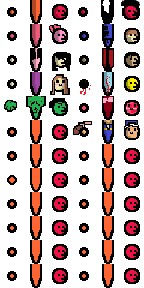
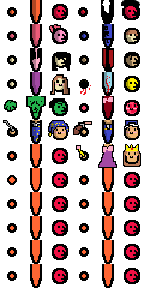
wall grab and corner climb improvements

diff --git a/src/engine/Mechanics/PlayerMovement.ts b/src/engine/Mechanics/PlayerMovement.ts
@@ -30,6 +30,7 @@ export class PlayerMovement {
   private climbInset = 3.6;
   private mudFall = 0.1;
   private minMudJumpStop = 0;
+  private wallCoyoteVY = -0.1;
 
   private mudXExtraFrictionBase = 0.3;
   private mudXExtraFrictionMult = -0.1;
@@ -44,6 +45,7 @@ export class PlayerMovement {
   private kickTime = 15;
   private grabTime = 50;
   private rollTime = 20;
+  private coyoteWallTime = 20;
   private rollAfterTime = 5;
   private landTimeBase = 5;
   private landTimeVMult = 1;
@@ -104,14 +106,13 @@ export class PlayerMovement {
     if (player.keys.up) {
       if (this.canJump(player)) {
         if (!player.isGrounded && !player.actionState) player.doubleJumpsRemaining--;
-        player?.actionState?.onJump?.();
 
         // let tdc = this.world.checkBottom(player.getCollider(), player.isGhost);
         // if (tdc < this.minMudJumpStop && tvc.downBlock && tvc.downBlock.type === 'mud') {
         //   let percent = tvc.down / this.mudMaxSink;
         //   player.vY = this.mudJumpSpeedMin + percent * this.mudJumpSpeedMult;
         // } else {
-          player.vY = Math.max(this.jumpSpeed, player.vY + this.jumpSpeed);
+        player.vY = Math.max(this.jumpSpeed, player.vY + this.jumpSpeed);
         // }
 
         player.isGrounded = false;
@@ -119,6 +120,7 @@ export class PlayerMovement {
         player.landTime = 0;
         player.stepBlock = null;
         player.holdUp = true;
+        player?.actionState?.onJump?.();
       } else {
         if (!player.isGrounded && player.vY < 0) player.holdUp = true;
       }
@@ -135,13 +137,13 @@ export class PlayerMovement {
         } else {
           player.isCrouching = true;
         }
-      } else {
+      } else if (!player.isCrouching) {
         player.vY = Math.max(this.divingSpeed, player.vY);
         player.isCrouching = true;
       }
     } else {
       if (player.actionState) {}
-      else if (player.isCrouching && !this.world.checkTop(player.getCollider(true), player.isGhost)) {
+      else if (player.isGrounded && player.isCrouching && !this.world.checkTop(player.getCollider(true), player.isGhost)) {
         player.isCrouching = false;
       }
     }
@@ -157,6 +159,11 @@ export class PlayerMovement {
       if (player.actionState.type === 'jetpacking') {
         speed = this.jetpackXSpeed;
         friction = this.airFriction;
+      } else if (player.actionState.type === 'wall-grab') {
+        if (player.actionState.hasPhysics) {
+          speed = this.airMoveSpeed;
+          friction = this.airFriction;
+        }
       }
     } else if (player.isGrounded) {
       speed = this.moveSpeed;
@@ -170,16 +177,19 @@ export class PlayerMovement {
     }
     if (player.landTime > 0) friction *= this.extraLandFriction;
 
-    if (player.keys.left || player.keys.right) {
-      if (player.bounceTime <= 0) {
-        let direction = 0;
-  
-        if (player.keys.left) direction--;
-        if (player.keys.right) direction++;
-
-        player.vX += speed * direction;
+    if (player.bounceTime <= 0) {
+      if (player.keys.left && !player.holdLeft) {
+        player.actionState?.onLR?.(-1);
+        player.vX += -speed;
+      }
+      if (player.keys.right && !player.holdRight) {
+        player.actionState?.onLR?.(1);
+        player.vX += speed;
       }
     }
+
+    if (!player.keys.left) player.holdLeft = false;
+    if (!player.keys.right) player.holdRight = false;
 
     player.vX *= friction;
     player.vX = _.clamp(player.vX, -this.maxSpeed, this.maxSpeed);
@@ -189,10 +199,10 @@ export class PlayerMovement {
   }
 
   public canJump(player: PlayerSprite) {
-    if (player.isCrouching) return false;
-    if (player.landTime > 0) return false;
     if (player.holdUp) return false;
     if (player.actionState) return player.actionState.canJump;
+    if (player.isCrouching) return false;
+    if (player.landTime > 0) return false;
     if (player.isGrounded) return true;
     if (!player.isGrounded && player.doubleJumpsRemaining > 0) return true;
 
@@ -203,8 +213,8 @@ export class PlayerMovement {
     // VERTICAL
 
     // UPDATE
-    player.y += player.vY;
     player.actionState?.updateY?.();
+    player.y += player.vY;
 
     // COLLIDE
     if (player.vY < 0) {
@@ -232,6 +242,8 @@ export class PlayerMovement {
       let downCollision = this.world.checkBottom(player.getCollider(), player.isGhost);
       
       if (downCollision) {
+        player.holdLeft = false;
+        player.holdRight = false;
         if (player.actionState && player.actionState.onCollisionDown) {
           player.actionState.onCollisionDown(downCollision);
         } else if (!player.isGrounded) {
@@ -279,14 +291,15 @@ export class PlayerMovement {
 
         if (!player.actionState) {
           let hlrCollision = this.world.checkLR(player.getTopCollider(), player.isGhost, direction);
-          if (!hlrCollision && (player.vX === 0 || Math.sign(player.vX) === direction)) {
+          if (!player.isCrouching && !hlrCollision && (player.vX === 0 || Math.sign(player.vX) === direction)) {
             this.startClimbing(player, direction);
             return;
           } else if (!player.isGrounded && player.wallGrabsRemaining > 0) {
             let key = direction < 0 ? player.keys.left : player.keys.right;
             let oKey = direction < 0 ? player.keys.right : player.keys.left;
+            let oHeld = direction < 0 ? player.holdRight : player.holdLeft;
 
-            if ((!oKey && Math.sign(player.vX) === direction && Math.abs(player.vX) > this.minGrabSpeedX) ||
+            if (((!oKey || oHeld) && Math.sign(player.vX) === direction && Math.abs(player.vX) > this.minGrabSpeedX) ||
                 (key && player.vY < 0 && player.vY > this.maxGrabSpeedY)) {
               this.startWallGrab(player, direction);
               return;
@@ -352,6 +365,7 @@ export class PlayerMovement {
       player.stepBlock = null;
       player.isGrounded = false;
       player.isCrouching = false;
+
       return true;
     } else {
       if (dCollision.type) player.stepBlock = dCollision.type;
@@ -402,6 +416,7 @@ export class PlayerMovement {
   }
 
   startWallGrab(player: PlayerSprite, direction: number) {
+    let coyote = -1;
     player.actionState = {
       type: 'wall-grab',
       direction,
@@ -411,22 +426,44 @@ export class PlayerMovement {
           player.isGrounded = false;
       },
       canJump: true,
-      onDown: () => player.actionState = null,
+      onDown: () => {
+        player.actionState = null;
+        player.isGrounded = false;
+        player.isCrouching = true;
+      },
       onJump: () => {
+        player.vY = this.jumpSpeed;
         player.vX = -this.kickVX * player.actionState.direction;
         player.bounceTime = this.kickTime;
         player.actionState = null;
 
         return true;
       },
-      updateY: () => player.y += this.grabSlideSpeed,
+      onLR: (pressed: number) => {
+        if (coyote < 0 && pressed !== direction) {
+          coyote = this.coyoteWallTime;
+          player.actionState.hasPhysics = true;
+          player.isGrounded = false;
+        }
+      },
+      updateY: () => {
+        if (coyote > 0) {
+          player.vY += this.wallCoyoteVY;
+          coyote--;
+          if (coyote === 0) {
+            player.actionState = null;
+          }
+        } else {
+          player.y += this.grabSlideSpeed;
+        }
+      },
       onCollisionDown: (vCollision: ColliionResponse) => {
         player.y -= vCollision.depth;
         player.actionState = null;
       },
       onCollisionLR: () => {
         let collision = this.world.checkLR(player.getCollider(), player.isGhost, direction);
-        if (!collision) {
+        if (!collision && coyote <= 0) {
           player.actionState = null;
           return;
         }
@@ -437,6 +474,7 @@ export class PlayerMovement {
     player.vY = 0;
     player.wallGrabsRemaining--;
     player.isGrounded = true;
+    direction === 1 ? (player.holdRight = true) : (player.holdLeft = true);
   }
 
   startJetpacking(player: PlayerSprite, direction: number) {
@@ -472,8 +510,14 @@ export class PlayerMovement {
       type: 'climbing',
       direction,
       maxTime: Infinity,
+      canJump: true,
       timeRemaining: Infinity,
       updateY: () => player.y -= this.climbSpeed,
+      onJump: () => {
+        player.actionState = null;
+        player.isGrounded = false;
+        player.isCrouching = true;
+      },
       onCollisionLR: () => {
         let collision = this.world.checkLR(player.getCollider(), player.isGhost, direction);
 
@@ -493,6 +537,11 @@ export class PlayerMovement {
           player.actionState = null;
         }
       },
+      onDown: () => {
+        player.actionState = null;
+        player.isGrounded = false;
+        player.isCrouching = true;
+      }
     };
 
     player.isCrouching = true;

diff --git a/src/pages/MenuUI.ts b/src/pages/MenuUI.ts
@@ -19,7 +19,7 @@ export class MenuUI extends BaseUI {
     let title = new PIXI.Text({text: 'Level Up Speed Run: D.A.D.A.!', style: {fontSize: 50}});
     title.position.set(25, 50);
     
-    let abaLevels = new PIXI.Text({text: "Aba's Levels:", style: {fontSize: 25}});
+    let abaLevels = new PIXI.Text({text: "Dad's Levels:", style: {fontSize: 25}});
     let aba1 = new Button({buttonLabel: 'Loopy', onClick: () => this.startLevel(0), color: 0xffcc00, width: 150, height: 40, labelStyle: {fontSize: 20 }});
     let aba2 = new Button({buttonLabel: 'Super Obby', onClick: () => this.startLevel(4), color: 0xffcc00, width: 150, height: 40, labelStyle: {fontSize: 20 }});
     let aba3 = new Button({buttonLabel: 'Hurdles', onClick: () => this.startLevel(9), color: 0xffcc00, width: 150, height: 40, labelStyle: {fontSize: 20 }});
@@ -30,27 +30,27 @@ export class MenuUI extends BaseUI {
     aba3.position.set(25, 290);
     aba4.position.set(25, 340);
     
-    let talyaLevels = new PIXI.Text({text: "Talya's Levels:", style: {fontSize: 25}});
+    let talyaLevels = new PIXI.Text({text: "Pizza Rainbow Levels:", style: {fontSize: 25}});
     let talya1 = new Button({buttonLabel: 'The Mountains', onClick: () => this.startLevel(1), color: 0xffcc00, width: 150, height: 40, labelStyle: {fontSize: 20 }});
     let talya2 = new Button({buttonLabel: 'Fall Secrets', onClick: () => this.startLevel(7), color: 0xffcc00, width: 150, height: 40, labelStyle: {fontSize: 20 }});
     let talya3 = new Button({buttonLabel: 'Escape Room', onClick: () => this.startLevel(8), color: 0xffcc00, width: 150, height: 40, labelStyle: {fontSize: 20 }});
     talyaLevels.position.set(275, 150);
-    talya1.position.set(275, 190);
-    talya2.position.set(275, 240);
-    talya3.position.set(275, 290);
+    talya1.position.set(300, 190);
+    talya2.position.set(300, 240);
+    talya3.position.set(300, 290);
     
-    let oriLevels = new PIXI.Text({text: "Ori's Levels:", style: {fontSize: 25}});
+    let oriLevels = new PIXI.Text({text: "Electric Orb Levels:", style: {fontSize: 25}});
     let ori1 = new Button({buttonLabel: 'Treasure Hunt', onClick: () => this.startLevel(2), color: 0xffcc00, width: 150, height: 40, labelStyle: {fontSize: 20 }});
     let ori2 = new Button({buttonLabel: 'Sky Base', onClick: () => this.startLevel(3), color: 0xffcc00, width: 150, height: 40, labelStyle: {fontSize: 20 }});
     let ori3 = new Button({buttonLabel: 'AOAO', onClick: () => this.startLevel(5), color: 0xffcc00, width: 150, height: 40, labelStyle: {fontSize: 20 }});
     let ori4 = new Button({buttonLabel: 'Secret Passage', onClick: () => this.startLevel(6), color: 0xffcc00, width: 150, height: 40, labelStyle: {fontSize: 20 }});
     let ori5 = new Button({buttonLabel: 'Level AW', onClick: () => this.startLevel(10), color: 0xffcc00, width: 150, height: 40, labelStyle: {fontSize: 20 }});
-    oriLevels.position.set(525, 150);
-    ori1.position.set(525, 190);
-    ori2.position.set(525, 240);
-    ori3.position.set(525, 290);
-    ori4.position.set(525, 340);
-    ori5.position.set(525, 390);
+    oriLevels.position.set(575, 150);
+    ori1.position.set(600, 190);
+    ori2.position.set(600, 240);
+    ori3.position.set(600, 290);
+    ori4.position.set(600, 340);
+    ori5.position.set(600, 390);
 
     this.ghostB = new Button({buttonLabel: 'No Ghost', onClick: this.toggleGhost, color: 0x00ccff, width: 90, height: 30, labelStyle: {fontSize: 15 }});
     this.ghostB.position.set(50, 505);
@@ -65,11 +65,13 @@ export class MenuUI extends BaseUI {
     this.player2Avatar.visible = false;
 
     this.addChild(background, title);
-    this.addChild(abaLevels, aba1, aba2, aba3, aba4);
+    this.addChild(abaLevels, aba1, aba2, aba3);
     this.addChild(talyaLevels, talya1, talya2, talya3);
     this.addChild(oriLevels, ori1, ori2, ori3, ori4, ori5);
 
-    this.addChild(this.playerB, this.player1Avatar, this.player2Avatar);
+    this.addChild(this.playerB);
+    this.addChild(this.player1Avatar);
+    this.addChild(this.player2Avatar);
     this.addChild(this.ghostB);
   }
 

diff --git a/src/engine/Objects/PlayerSprite.ts b/src/engine/Objects/PlayerSprite.ts
@@ -20,6 +20,10 @@ export class PlayerSprite extends PIXI.Container {
   };
 
   public holdUp = false;
+
+  public holdLeft = false;
+  public holdRight = false;
+
   public isGhost = false;
   public skinIndex = 0;
 
@@ -244,10 +248,10 @@ export class PlayerSprite extends PIXI.Container {
 
     let desiredSkew = this.vX * this.skewMult;
     let desiredVStretch = 1;
-    if (this.isCrouching) desiredSkew *= 4;
+    if (this.isCrouching && this.isGrounded) desiredSkew *= 4;
 
     desiredVStretch = 1 + Math.min(Math.abs(this.vY) * this.vStretchMult, this.maxVStretch);
-    if (this.isCrouching || (this.actionState && this.actionState.type === 'climbing')) {
+    if ((this.isCrouching && this.isGrounded) || (this.actionState && this.actionState.type === 'climbing')) {
       desiredVStretch *= 0.5;
     }
 
@@ -454,6 +458,7 @@ export interface ActionState {
   onExpire?: () => void;
   onJump?: () => void;
   onDown?: () => void;
+  onLR?: (direction: number) => void;
   canJump?: boolean;
   hasPhysics?: boolean;
   updateY?: () => void;

diff --git a/src/services/LevelLoader.ts b/src/services/LevelLoader.ts
@@ -48,7 +48,7 @@ export class LevelLoader {
       }
     });
 
-    for (let y = 0; y < 6; y++) {
+    for (let y = 0; y < 7; y++) {
       let skin: PIXI.Texture[] = [];
       this.skins.push(skin);
       for (let x = 0; x < 3; x++) {
